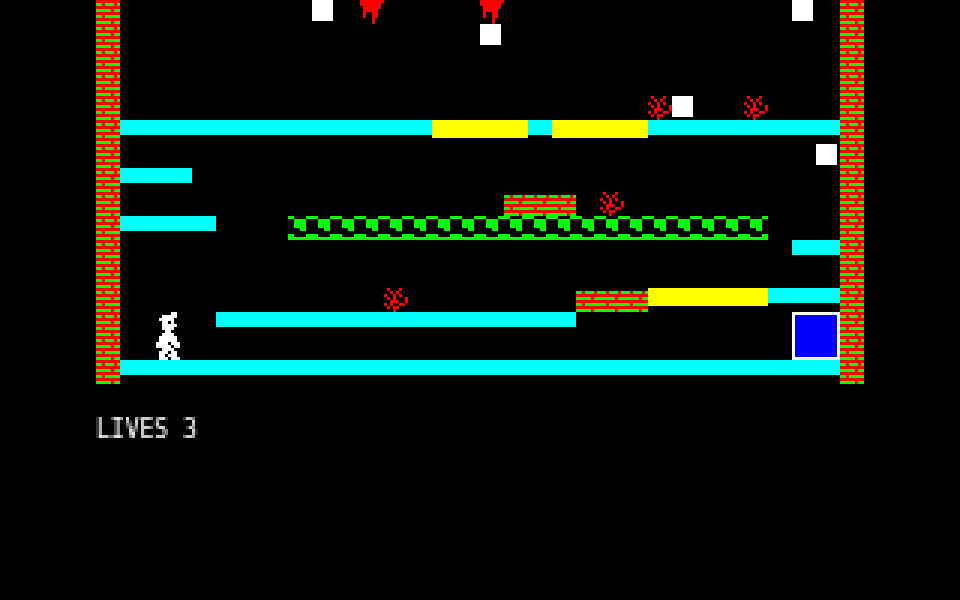
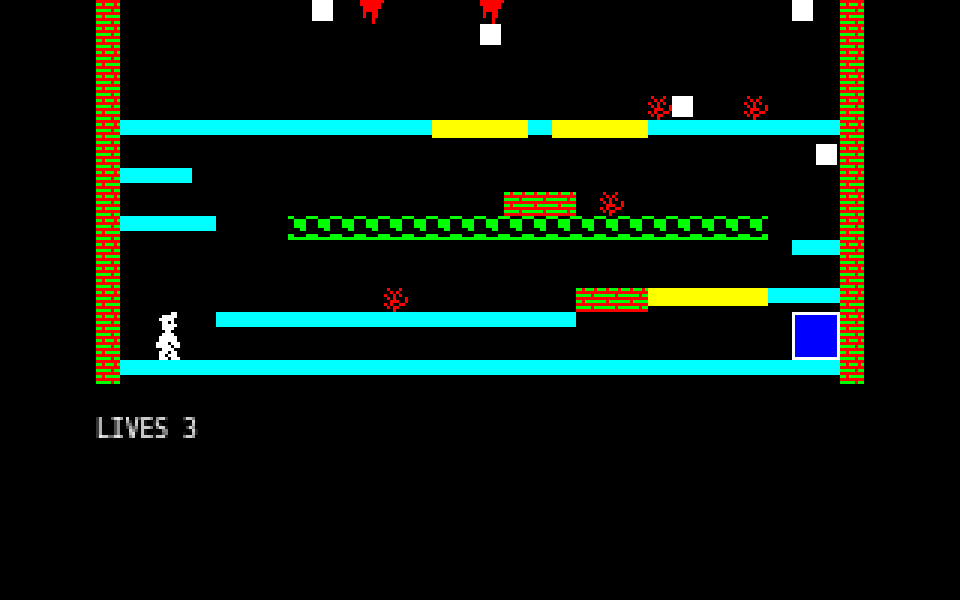
Align brick platforms and wall contact (#26)

Changed region(s): [[0.5938, 0.48, 0.6875, 0.54], [0.5, 0.3, 0.625, 0.36]]

diff --git a/src/world/TileMap.ts b/src/world/TileMap.ts
@@ -43,10 +43,10 @@ const DEADLY_MASK = definePixelMask([
   '........',
 ]);
 // Central Cavern uses the same brick bond for raised blocks and side walls.
-// Horizontal blocks leave their first scanline transparent, while vertically
-// chained wall cells add a complete red scanline to close the seam.
+// Horizontal blocks normalize the captured leading padding above the cell and
+// close their lower edge in red. Vertically chained wall cells instead close
+// the upper seam in red.
 const HORIZONTAL_BRICK_RED_MASK = definePixelMask([
-  '........',
   '..#...#.',
   '########',
   '.....#..',
@@ -54,6 +54,7 @@ const HORIZONTAL_BRICK_RED_MASK = definePixelMask([
   '..#.....',
   '########',
   '.....#..',
+  '########',
 ]);
 const VERTICAL_BRICK_RED_MASK = definePixelMask([
   '########',
@@ -65,7 +66,17 @@ const VERTICAL_BRICK_RED_MASK = definePixelMask([
   '########',
   '.....#..',
 ]);
-const BRICK_GREEN_MASK = definePixelMask([
+const HORIZONTAL_BRICK_GREEN_MASK = definePixelMask([
+  '##.###.#',
+  '........',
+  '#####.##',
+  '........',
+  '##.#####',
+  '........',
+  '#####.##',
+  '........',
+]);
+const VERTICAL_BRICK_GREEN_MASK = definePixelMask([
   '........',
   '##.###.#',
   '........',
@@ -437,17 +448,26 @@ export class TileMap {
     x: number,
     y: number,
   ): void {
+    const usesVerticalMask = this.usesVerticalBrickMask(column, row);
+
     ctx.fillStyle = BRICK_RED;
     renderPixelMask(
       ctx,
-      this.usesVerticalBrickMask(column, row)
+      usesVerticalMask
         ? VERTICAL_BRICK_RED_MASK
         : HORIZONTAL_BRICK_RED_MASK,
       x,
       y,
     );
     ctx.fillStyle = BRICK_GREEN;
-    renderPixelMask(ctx, BRICK_GREEN_MASK, x, y);
+    renderPixelMask(
+      ctx,
+      usesVerticalMask
+        ? VERTICAL_BRICK_GREEN_MASK
+        : HORIZONTAL_BRICK_GREEN_MASK,
+      x,
+      y,
+    );
   }
 
   private usesVerticalBrickMask(column: number, row: number): boolean {

diff --git a/src/entities/MinerWilly.test.ts b/src/entities/MinerWilly.test.ts
@@ -146,12 +146,12 @@ function createTileMap(rows: Readonly<Record<number, string>> = {}): TileMap {
 }
 
 describe('MinerWilly', () => {
-  it('centers the terrain envelope within the 16-pixel sprite cell', () => {
+  it('aligns the terrain envelope with the visible horizontal body', () => {
     const willy = new MinerWilly(START_X, START_Y);
 
     expect(willy.collisionX).toBe(willy.x + 4);
     expect(willy.collisionY).toBe(willy.y);
-    expect(MinerWilly.COLLISION_WIDTH).toBe(10);
+    expect(MinerWilly.COLLISION_WIDTH).toBe(9);
     expect(MinerWilly.COLLISION_HEIGHT).toBe(16);
   });
 

diff --git a/src/core/GameSession.test.ts b/src/core/GameSession.test.ts
@@ -182,7 +182,7 @@ describe('GameSession', () => {
 
       if (approachTicks > 0) {
         expect(session.playerPosition).toEqual({
-          x: TileMap.ORIGIN_X + 146,
+          x: TileMap.ORIGIN_X + 147,
           y: 88,
         });
       }
@@ -194,7 +194,7 @@ describe('GameSession', () => {
 
         if (approachTicks > 0 && tick === 7) {
           expect(session.playerPosition).toEqual({
-            x: TileMap.ORIGIN_X + 154,
+            x: TileMap.ORIGIN_X + 155,
             y: 80,
           });
         }

diff --git a/src/entities/MinerWilly.ts b/src/entities/MinerWilly.ts
@@ -24,7 +24,7 @@ export class MinerWilly {
 
     // Terrain remains tile-envelope based while hazards and level objects use
     // the occupied pixels of the current animation frame.
-    public static readonly COLLISION_WIDTH = 10;
+    public static readonly COLLISION_WIDTH = 9;
     public static readonly COLLISION_HEIGHT = MinerWilly.SPRITE_HEIGHT;
     private static readonly COLLISION_OFFSET_X = 4;
     private static readonly DEADLY_MASK_EXPANSION = 1;

diff --git a/src/world/TileMap.test.ts b/src/world/TileMap.test.ts
@@ -136,7 +136,6 @@ describe('TileMap', () => {
       'GGGGGRGG',
     ]);
     expect(readRenderedBrick(4)).toEqual([
-      '........',
       'GGRGGGRG',
       'RRRRRRRR',
       'GGGGGRGG',
@@ -144,6 +143,7 @@ describe('TileMap', () => {
       'GGRGGGGG',
       'RRRRRRRR',
       'GGGGGRGG',
+      'RRRRRRRR',
     ]);
   });
 

diff --git a/manic-miner-specs.md b/manic-miner-specs.md
@@ -19,14 +19,16 @@
   remain 7x7 rectangles. One-way and collapsible tiles use visible heights of
   5 and 6 pixels respectively. Conveyors use four CPC-derived directional 8x8
   animation masks. Solid terrain uses the measured red-and-green CPC brick
-  pattern: horizontal blocks have a transparent first scanline and vertically
-  chained wall cells close it with a complete red row.
-* **Collision Geometry:** Willy keeps a provisional 10x16 terrain envelope,
-  aligned four pixels from the left edge of his sprite cell. This preserves
-  the measured clearance between his visible silhouette and raised solid
-  blocks. Static-hazard and level-object overlap uses the occupied pixels of
-  his current 16x16 movement mask. Static-hazard collision adds a one-pixel
-  horizontal guard to the captured silhouette.
+  pattern: horizontal blocks normalize their transparent leading scanline
+  above the collision cell and close their lower edge in red, while vertically
+  chained wall cells close their upper edge with a complete red row.
+* **Collision Geometry:** Willy keeps a provisional 9x16 terrain envelope,
+  aligned four pixels from the left edge of his sprite cell. Removing the
+  always-empty rightmost column lets his visible silhouette meet walls without
+  changing the established left-side alignment. Static-hazard and level-object
+  overlap uses the occupied pixels of his current 16x16 movement mask.
+  Static-hazard collision adds a one-pixel horizontal guard to the captured
+  silhouette.
 
 ## 2. Movement Mechanics (Miner Willy)
 * **Horizontal Speed:** Fixed speed. Willy moves exactly 2 pixels per frame horizontally. No inertia, no acceleration, no deceleration.

diff --git a/docs/central-cavern-graybox.md b/docs/central-cavern-graybox.md
@@ -58,9 +58,11 @@ and `(12, 12)`.
   that it moves left, so the level symbol and tile model now preserve its
   direction explicitly.
 - Solid terrain now uses the measured red-and-green CPC brick bond. Raised
-  horizontal blocks leave their first scanline transparent, while vertically
-  chained side-wall cells add a complete red scanline to close each seam.
-  Their collision geometry remains the full 8x8 solid cell.
+  horizontal blocks normalize their captured transparent leading scanline
+  above the tile, aligning their visible top with Willy's feet and adjacent
+  collapsible floors, and finish with a complete red lower scanline. Vertically
+  chained side-wall cells retain a complete red upper scanline to close each
+  seam. Their collision geometry remains the full 8x8 solid cell.
 - Collapsible tiles now degrade independently over seven accumulated support
   ticks. One uninterrupted walking pass removes them completely, and a life
   restart returns them to their initial state.
@@ -96,7 +98,7 @@ These dimensions describe visible placeholder bounds, not collision masks.
 | Element | Placeholder size |
 | --- | --- |
 | Willy's sprite cell | 16x16 pixels |
-| Willy's terrain collision envelope | 10x16 pixels, offset 4px into the cell |
+| Willy's terrain collision envelope | 9x16 pixels, offset 4px into the cell |
 | Collectible | 7x7 pixels |
 | One-way floor | 8x5 pixels |
 | Collapsible floor | 8x6 pixels |
